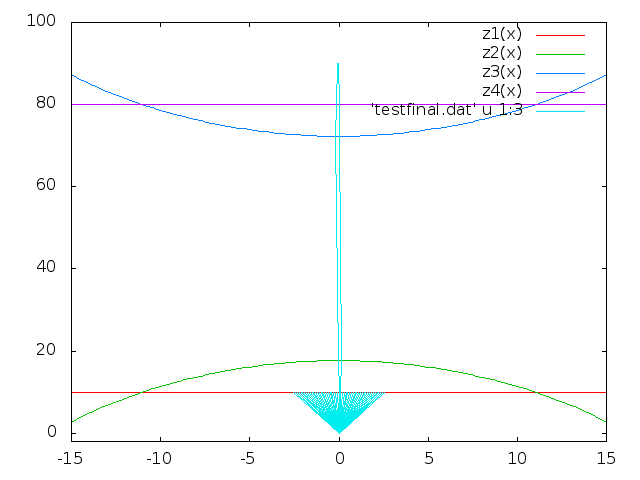
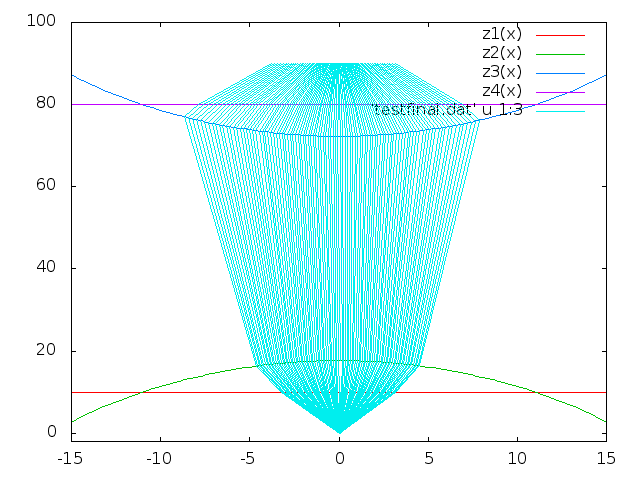
Wheoo Added lens images to experiment

Changed region(s): [[0.2812, 0.125, 0.75, 0.875]]

diff --git a/report/experiments.tex b/report/experiments.tex
@@ -1,5 +1,50 @@
 \section{Experiments and Performance}
 \label{experiments}
+
+\subsection{Raytracing}
+
+Initial tests of the raytracer.
+
+\begin{figure}
+\centering
+\begin{subfigure}{.5\textwidth}
+  \centering
+  \includegraphics[width=7cm]{out.png}
+  \caption{A norm}
+  \label{fig:sub1}
+\end{subfigure}%
+\begin{subfigure}{.5\textwidth}
+  \centering
+  \includegraphics[width=7cm]{out2.png}
+  \caption{A snell}
+  \label{fig:sub2}
+\end{subfigure}
+\caption{A figure with two subfigures}
+\label{fig:test}
+\end{figure}
+
+\begin{figure}
+\centering
+\begin{subfigure}{.5\textwidth}
+  \centering
+  \includegraphics[width=7cm]{out4.png}
+  \caption{A refract}
+  \label{fig:sub3}
+\end{subfigure}%
+\begin{subfigure}{.5\textwidth}
+  \centering
+  \includegraphics[width=7cm]{out5.png}
+  \caption{A lenstest}
+  \label{fig:sub4}
+\end{subfigure}
+\caption{A figure with two subfigures}
+\label{fig:test2}
+\end{figure}
+
+
+
+\subsection{Training and Regression}
+
 We had limited time to perform experiments due to the late arrival of our dataset.  However, the tests that we did perform clearly show that our distributed logistic classifier scales well to achieve significant performance gains.  In addition to provable performance gains, we also observed Gustafson's Law in action in that the available parallelism significantly increases with our problem size.
 
 For our initial tests, we ran two training sets through the classifier.  The first training set was small (283M) and the second set was larger (~2.9G).  Our first goal was to observe the classification accuracy on of the classifier on the testing set.  Using the small training set, we were easily able to achieve 100\% accuracy.  This indicates that the amount of noise was insufficient and/or that there were not enough rays sampled to adequately obscure label partition boundaries.

diff --git a/report/development.tex b/report/development.tex
@@ -48,9 +48,9 @@ with the constants
 \hline
 C & -0.128 \\
 k & -0.824 \\ 
-D$_0$ & 17.705 \\
-D$_2$ & 2.11*10$^{-2}$ \\
-D$_4$ & 8.71*10$^{-2}$ \\
+D_0 & 17.705 \\
+D_2 & 2.11*10^{-2} \\
+D_4 & 8.71*10^{-2} \\
 \hline
 \end{array}
 \end{equation}
